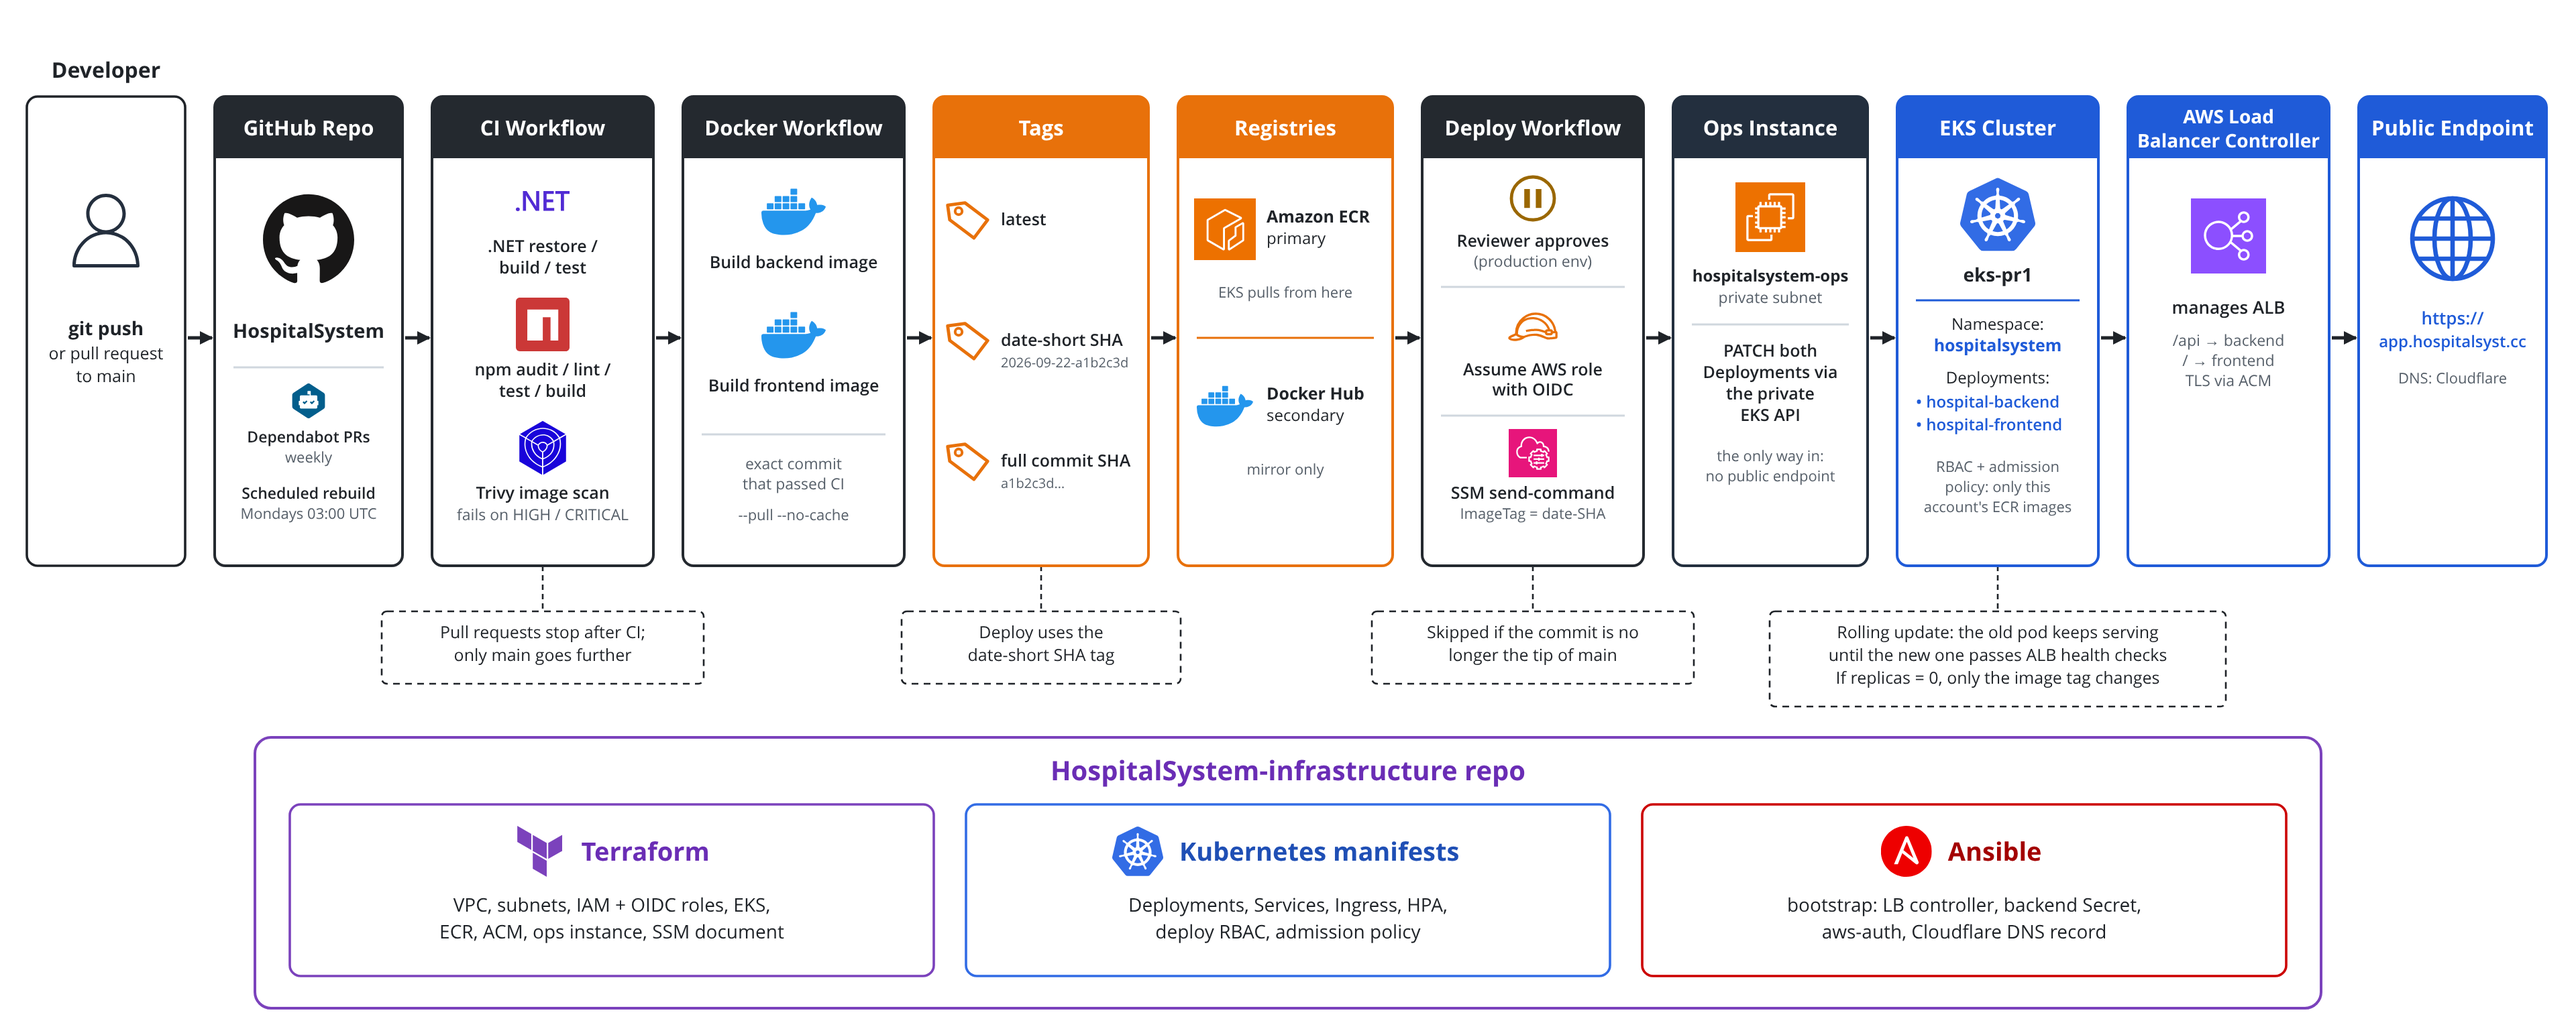
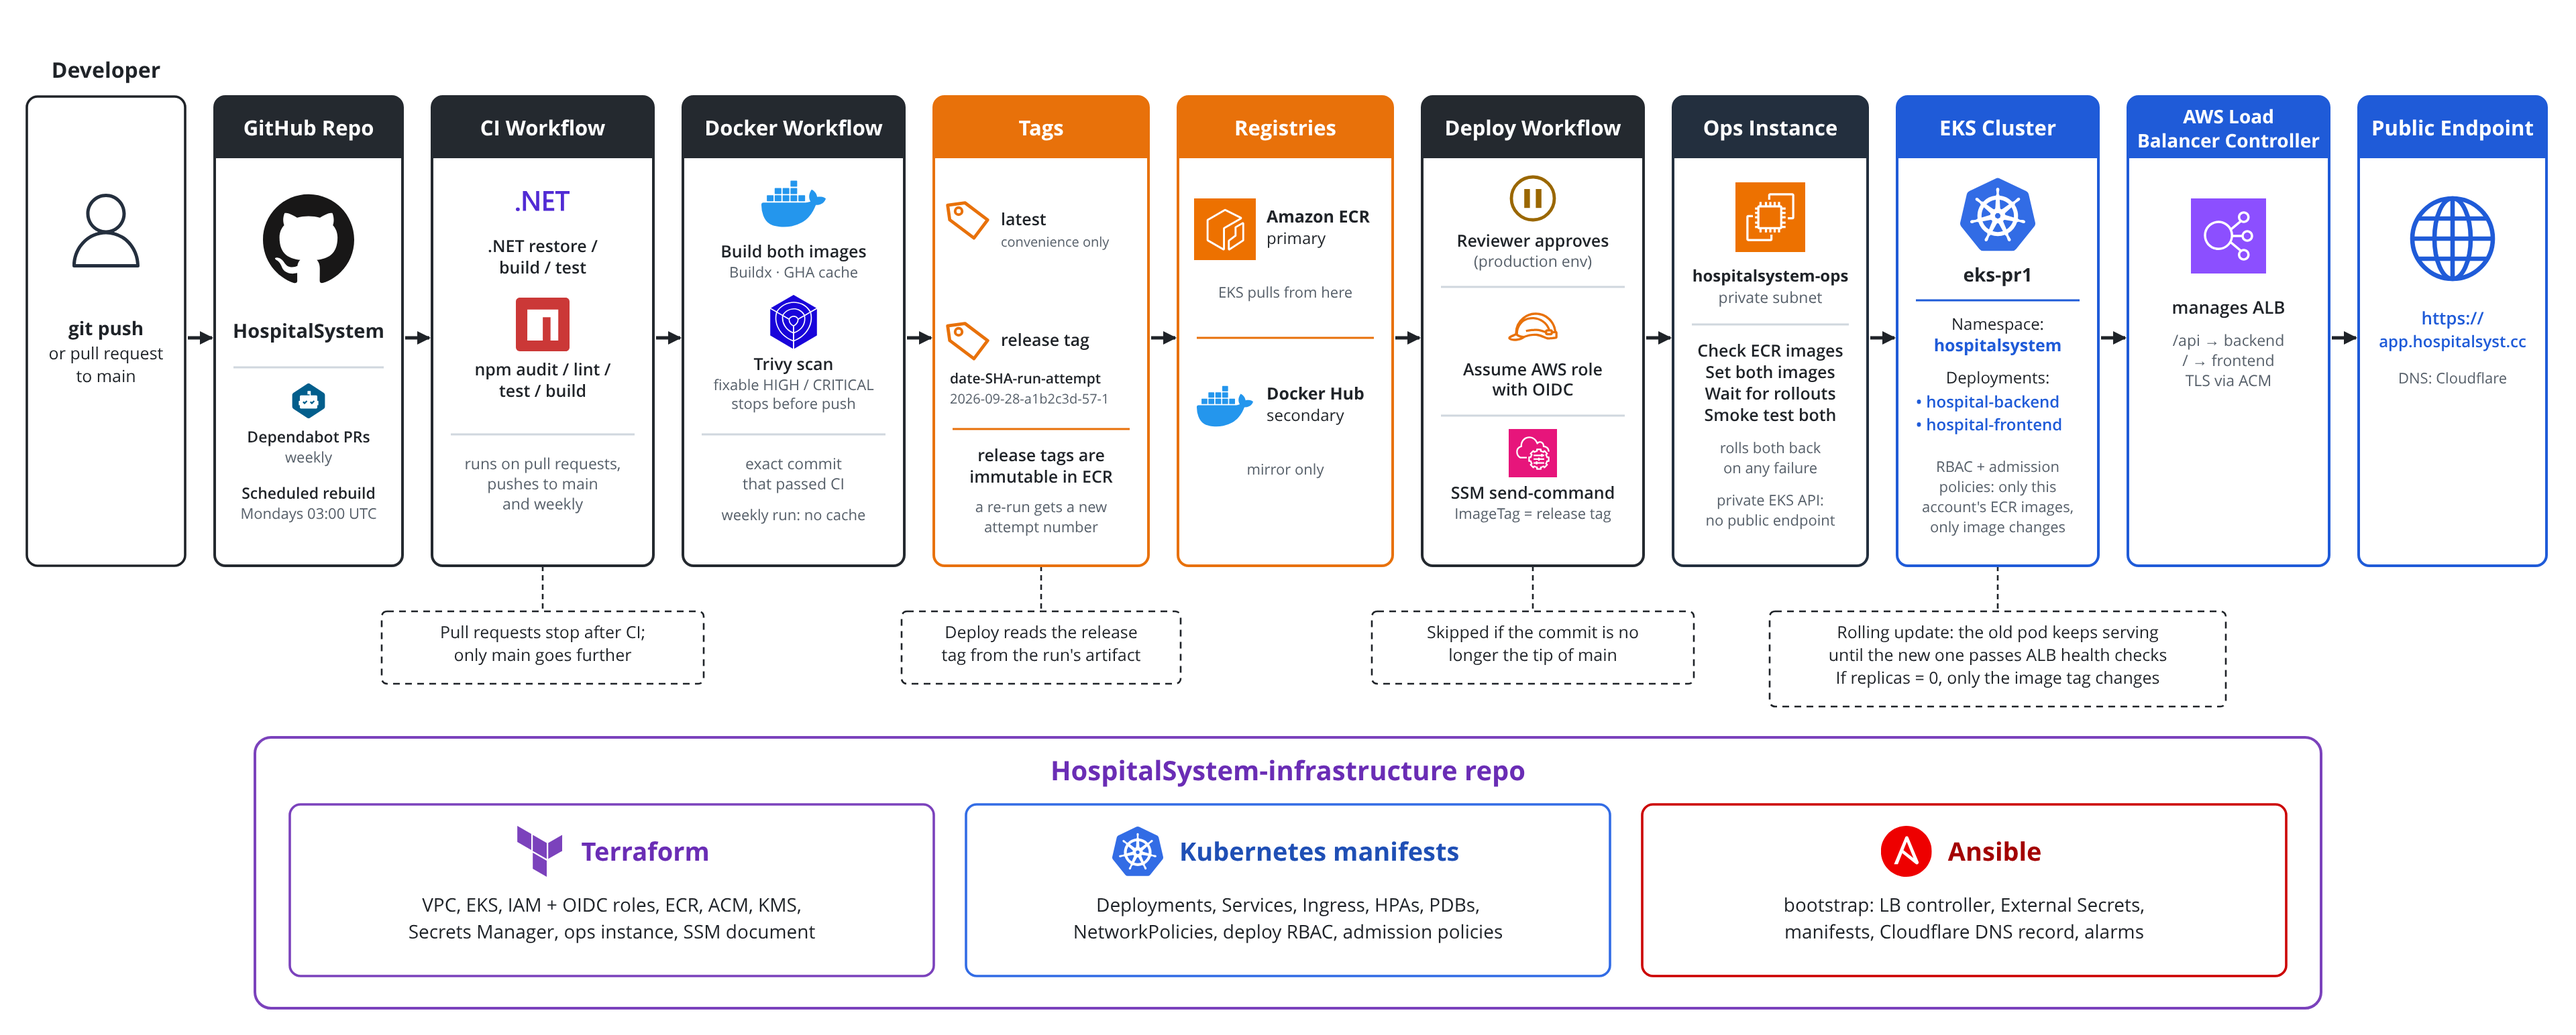
docs: redraw the architecture and CI/CD diagrams for the current stack
- architecture: HPAs fixed at two pods, the backend secrets reader
  role, Secrets Manager, External Secrets, SNS alert email, the ECR
  API endpoint, immutable release tags and TLS 1.2/1.3. Drop aws-auth
  from the Ansible box, and show the push label the IAM box hid
- CI/CD: Trivy moves to the Docker workflow, the tags are latest and
  date-SHA-run-attempt, and the ops instance checks images, smoke
  tests and rolls back
- README shows these two diagrams instead of the August ones, and
  links the app URL

diff --git a/README.md b/README.md
@@ -6,7 +6,7 @@ Infrastructure and Kubernetes deployment configuration for:
 
 Current AWS deployment target:
 
-- Public app URL: `https://app.hospitalsyst.cc`
+- Public app URL: [https://app.hospitalsyst.cc](https://app.hospitalsyst.cc)
 - Runtime platform: Amazon EKS
 - Container registry: Amazon ECR
 - Ingress: AWS Application Load Balancer
@@ -73,7 +73,7 @@ The Terraform is now the source of truth for the AWS layer; see
 
 ## Architecture
 
-![AWS infrastructure architecture](assets/images/aws-architecture.png)
+![AWS infrastructure architecture](assets/images/infrastructure-architecture.png)
 
 The application runs on Amazon EKS inside a custom VPC. Public traffic enters
 through an AWS Application Load Balancer managed by the AWS Load Balancer
@@ -148,7 +148,7 @@ config/
 ├── alb-alarms.json             # the ALB alarms, read by monitoring.yml and the cleanup
 └── account-sweep-ignore.txt    # resources the sweep reports as IGNORED
 tests/                  # Python regression tests (see Checks and Tests)
-assets/images/          # README diagrams
+assets/images/          # README diagrams: each .png is rendered from its .svg
 CICD/                   # copy of the app repository's workflows, not run here
 .github/                # this repository's CI and Dependabot
 kubernetes/             # Jinja templates rendered by apply-kubernetes.yml
@@ -243,7 +243,7 @@ Kubernetes manages the workload layer:
 
 ## CI/CD Workflow
 
-![CI/CD deployment flow](assets/images/cicd-flow.png)
+![CI/CD pipeline](assets/images/cicd-pipeline.png)
 
 The CI/CD pipeline lives in the `.github/workflows` directory of the application
 repository:
